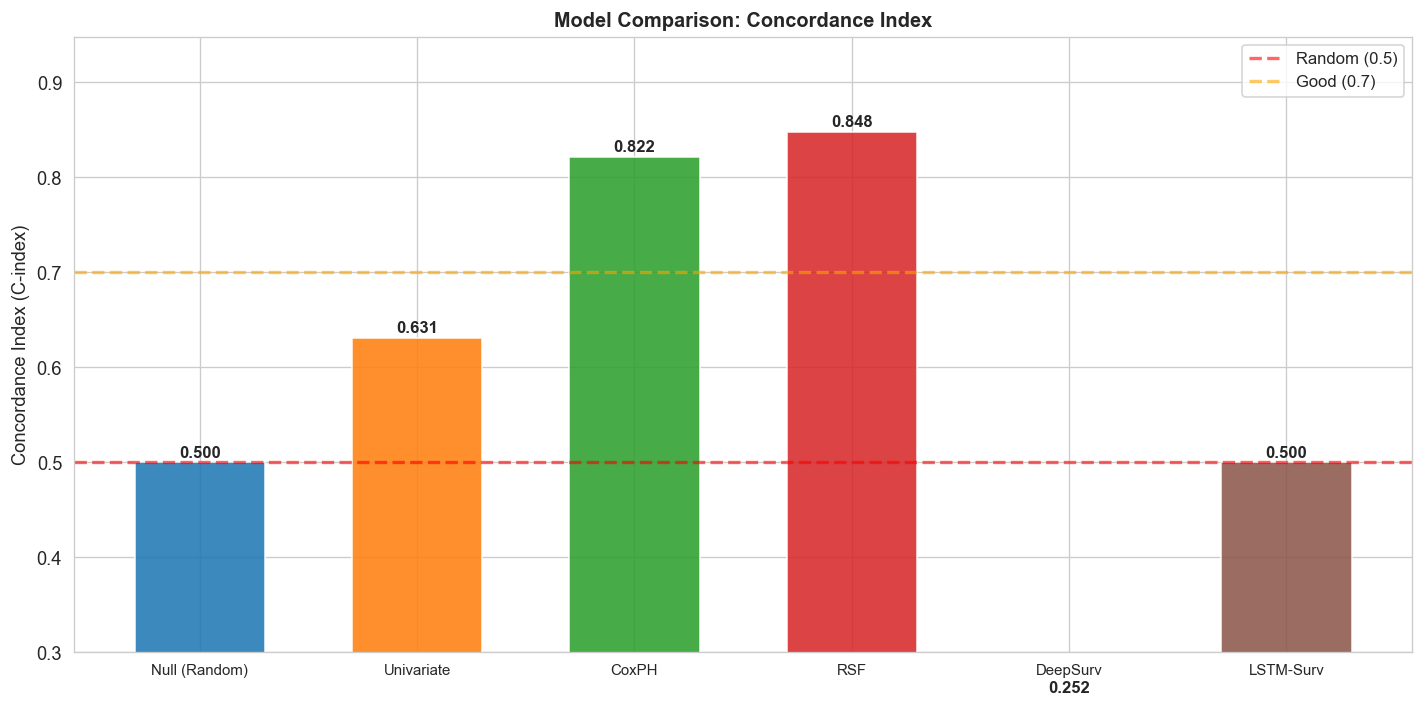
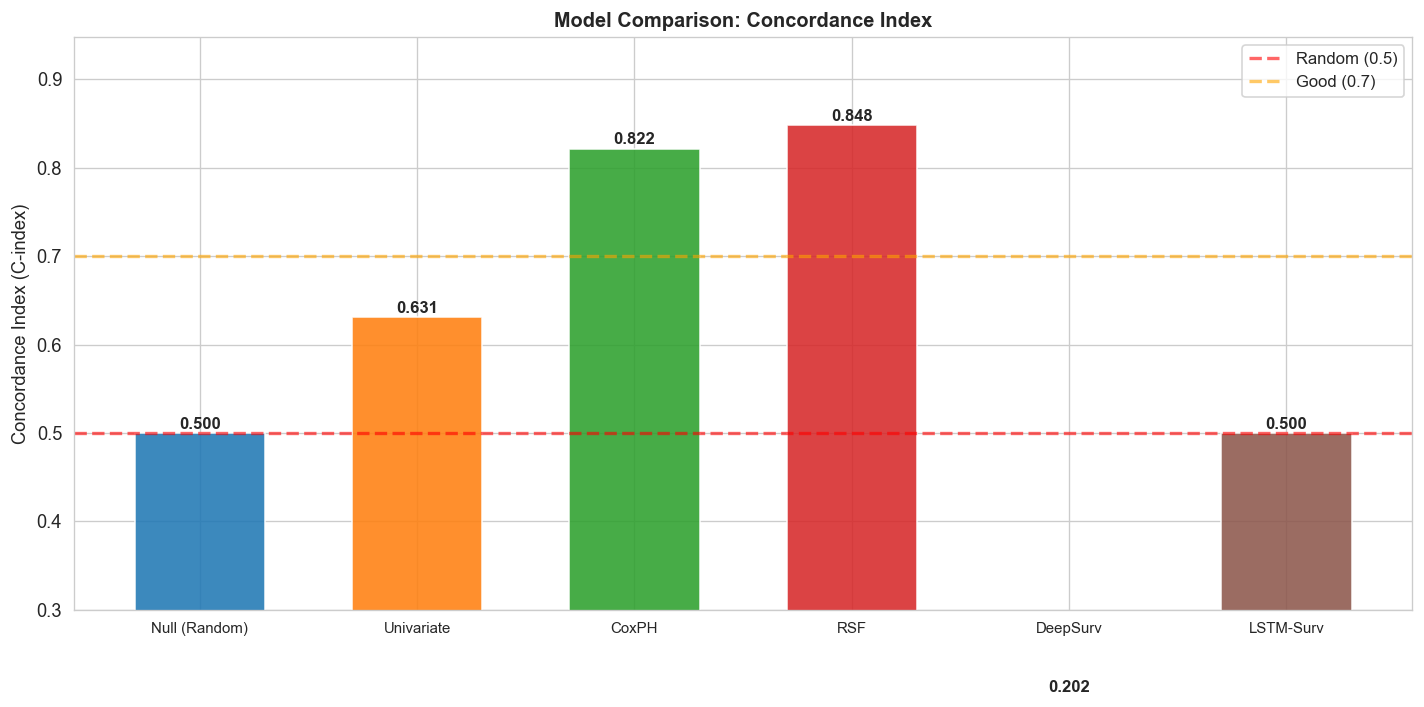
Vector Scenario changes

diff --git a/FitBit-VitalSigns-Project/notebooks/fix_var_rename.py b/FitBit-VitalSigns-Project/notebooks/fix_var_rename.py
@@ -1,0 +1,27 @@
+import json
+import sys
+sys.stdout.reconfigure(encoding='utf-8')
+
+with open('6.0-survival-analysis-complete.ipynb', 'r', encoding='utf-8') as f:
+    nb = json.load(f)
+
+for i, cell in enumerate(nb['cells']):
+    src = ''.join(cell.get('source', []))
+    if 'Cox PH Visualization' in src and 'cox_hr' in src:
+        new_source = []
+        for line in cell['source']:
+            # Fix the remaining 'len(hr)' -> 'len(cox_hr)'
+            new_line = line.replace(
+                "    y_pos = range(len(hr))\n",
+                "    y_pos = range(len(cox_hr))\n"
+            )
+            new_source.append(new_line)
+        cell['source'] = new_source
+        print(f"Fixed cell {i} - y_pos now uses len(cox_hr)")
+        for j, l in enumerate(new_source[13:20]):
+            print(f"  {j+13}: {repr(l[:90])}")
+        break
+
+with open('6.0-survival-analysis-complete.ipynb', 'w', encoding='utf-8') as f:
+    json.dump(nb, f, ensure_ascii=False, indent=1)
+print("Saved successfully.")